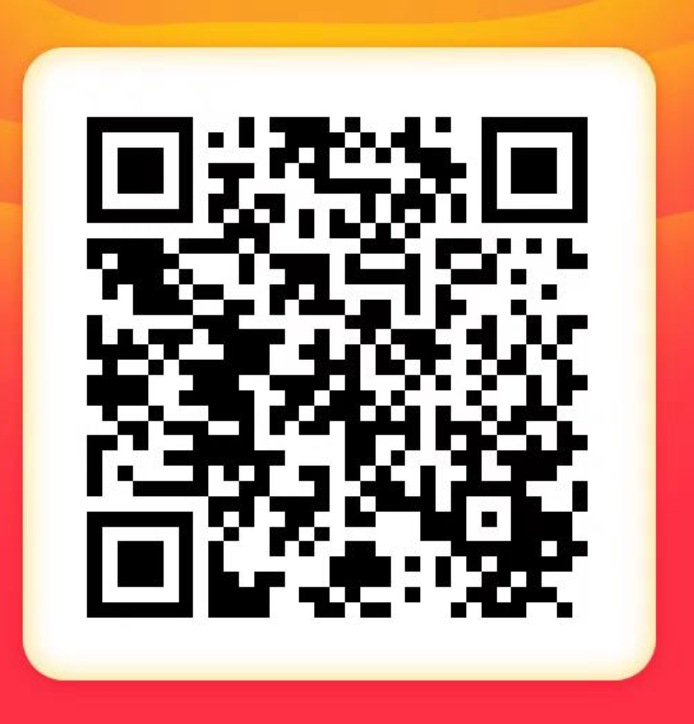
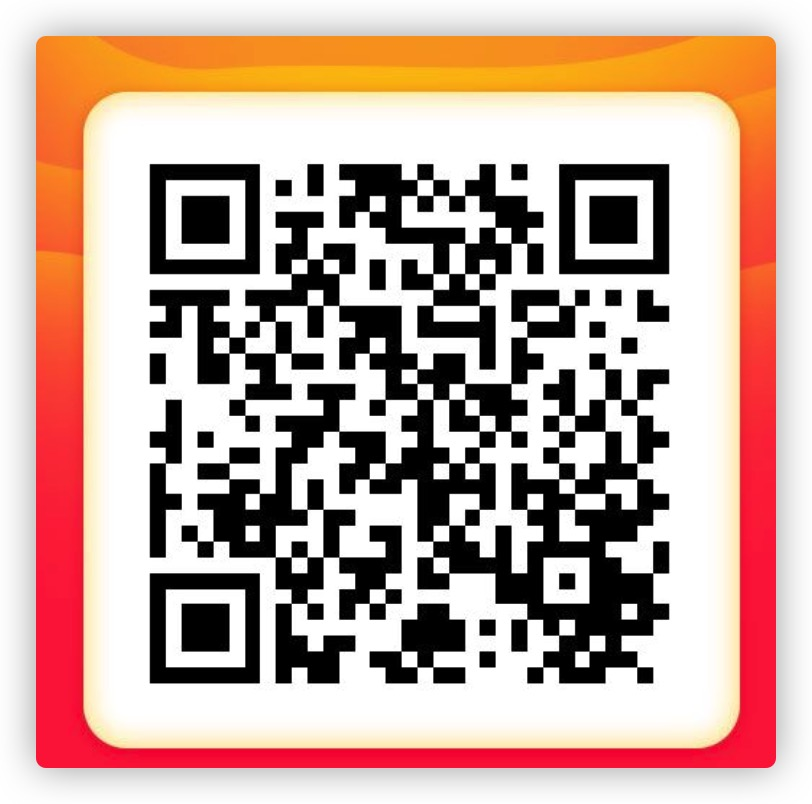
更新

diff --git a/fksj/fksj.js b/fksj/fksj.js
@@ -1,6 +1,6 @@
 /**
  * 疯狂水晶 app (链接带邀请)  谢谢填写
- * 下载地址: http://mmwk.mmwl.fun/download/9570691cce3dc93a?user=17803
+ * 下载地址: http://mmwk.mmwl.fun/download/9570691cce3dc93a?user=18349
  * cron 0 * * * *  yml2213_javascript_master/fksj.js
  *
  * 疯狂水晶 app(小程序也有)
